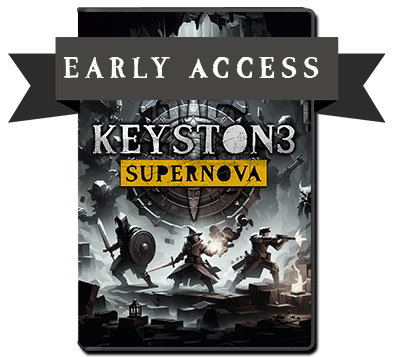
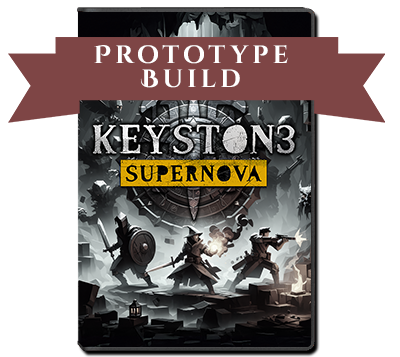
Updates

Changed region(s): [[0.03, 0.0924, 0.96, 0.3389]]

diff --git a/keystone/index.html b/keystone/index.html
@@ -289,14 +289,19 @@
                     </div>
                     <div class="col-md-5">
                         <h2 class="cinzel-decorative-regular">
-                          A Living Dungeon
+                          An Early Look at <b>Keystone: Supernova</b>
                         </h2>
-                        <p>
-                          <b>Keystone: Supernova</b> is a role-playing video game set inside a vast, engineered dungeon that responds to player perception and configuration. Players control a small party of characters, each revealing different structural aspects of the environment, uncovering hidden paths, altered geometry, and overlapping layers of reality. Exploration, puzzle-solving, and tactical encounters are all part of the same interconnected system.
-                        </p>
-                        <p>
-                          The game centers on interacting with the dungeon’s internal mechanisms to change how the world behaves. By configuring key structures, players influence navigation, access, and outcomes as they move through the environment. This release represents an early playable version of Keystone, available to download and run locally.
-                        </p>
+                          <p>
+                            <b>Keystone: Supernova</b> is a role-playing game set inside a vast, engineered dungeon that reacts to how it is explored and configured. Players guide a small party through layered environments where perception matters—revealing hidden paths, shifting geometry, and overlapping states of reality. Exploration, puzzles, and tactical encounters all feed into the same interconnected systems.
+                          </p>
+
+                          <p>
+                            Progress is driven by interacting directly with the dungeon's internal mechanisms. By configuring key structures, players alter navigation, access, and outcomes as they move forward. The dungeon isn't just a setting—it's the primary system you engage with.
+                          </p>
+
+                          <p>
+                            This is an early playable version of <b>Keystone: Supernova</b>, made available as a downloadable prototype. It represents the game in active development and can be run locally to experience the core mechanics and direction of the project.
+                          </p>
                         <p>
                                                 <a
                           href="https://drive.google.com/file/d/1zIqn_so1A_g2A27RsHATymefthPEDWCk/view?usp=drive_link"
